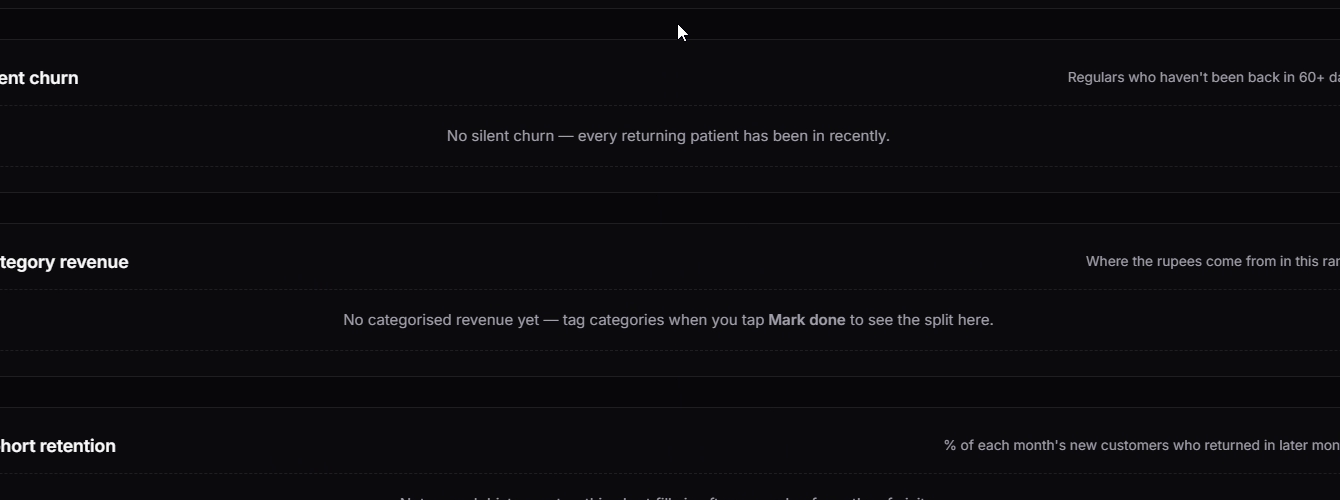
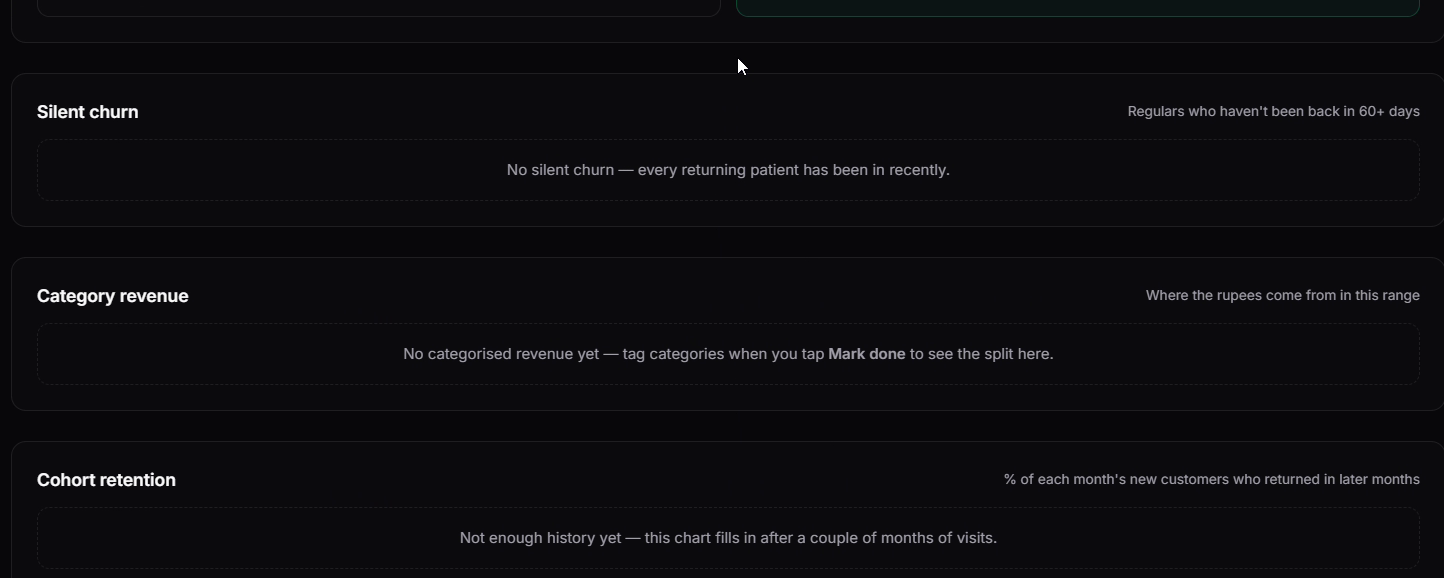
Baari: fix the clipped wide images — full content, one aspect, no crop
The last recut forced every wide shot to 1340px wide, but the app screens
(Search, empty states) carry ~1445px of content while the demo screens
carry ~1342px. object-cover then sliced both edges off the app screens —
"Search" rendered as "arch", phone numbers lost their first digits, and
"Add guest" was cut to "Add gu".

Recut each shot to its own full content width and set each frame's aspect
to that shot's exact pixel ratio, so object-cover has nothing to crop:
- App screens (Search, empty states): 1444x578.
- Demo screens (queue board, Signal reports, Signal overview): 1342x536.
All five now render at an identical 2.50, cohesive, with nothing clipped —
verified against each source frame.

diff --git a/app/work/baari/page.jsx b/app/work/baari/page.jsx
@@ -301,7 +301,7 @@ export default function BaariPage() {
                 <BrowserShot
                   src="/assets/baari/demo-queue-full.png"
                   alt="The queue board — waiting list on the left with tokens, reasons and late flags, the patient in consult on the right with a live timer"
-                  aspect="1340/500"
+                  aspect="1342/536"
                 />
               }
             />
@@ -355,7 +355,7 @@ export default function BaariPage() {
                 <BrowserShot
                   src="/assets/baari/live-search.png"
                   alt="Search — find a patient by name or 10-digit mobile, with a list of recent patients below"
-                  aspect="1340/500"
+                  aspect="1444/578"
                 />
               }
             />
@@ -371,7 +371,7 @@ export default function BaariPage() {
                 <BrowserShot
                   src="/assets/baari/demo-signal-reports.png"
                   alt="Signal reports — silent churn listing lapsed regulars, category revenue split across consultation, pharmacy and procedure, and a cohort retention matrix"
-                  aspect="1340/500"
+                  aspect="1342/536"
                 />
               }
             />
@@ -387,7 +387,7 @@ export default function BaariPage() {
                 <BrowserShot
                   src="/assets/baari/demo-signal-stats.png"
                   alt="Signal overview — total bookings, completed, no-show rate, cancellations, average wait and session, with revenue coverage and bookings split by app, front desk and walk-in"
-                  aspect="1340/500"
+                  aspect="1342/536"
                 />
               }
             />
@@ -403,7 +403,7 @@ export default function BaariPage() {
                 <BrowserShot
                   src="/assets/baari/live-empty-states.png"
                   alt="Three report cards with instructional empty states for silent churn, category revenue and cohort retention"
-                  aspect="1340/500"
+                  aspect="1444/578"
                 />
               }
             />
